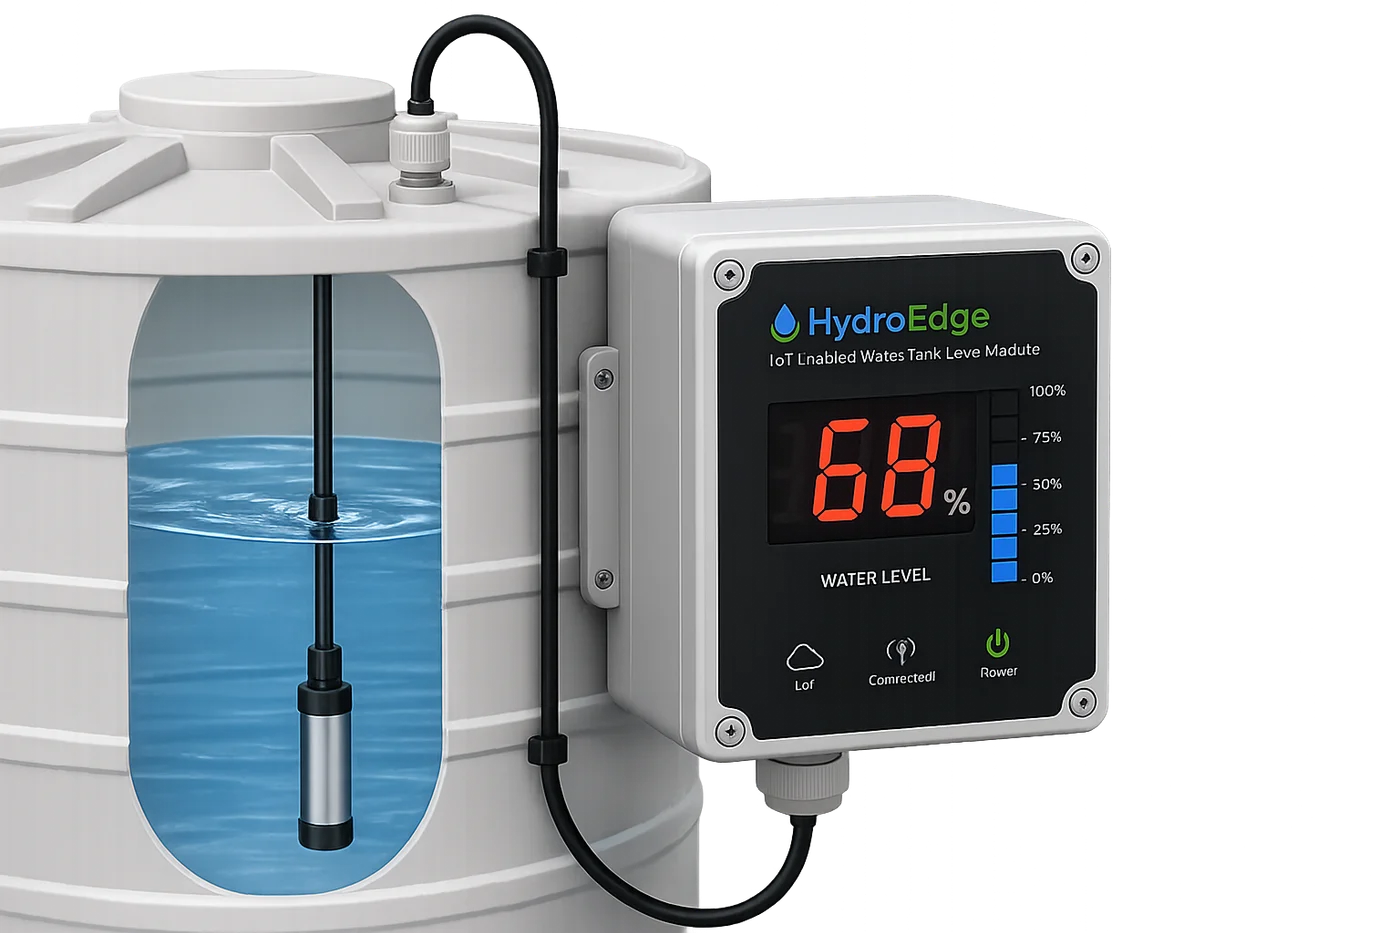
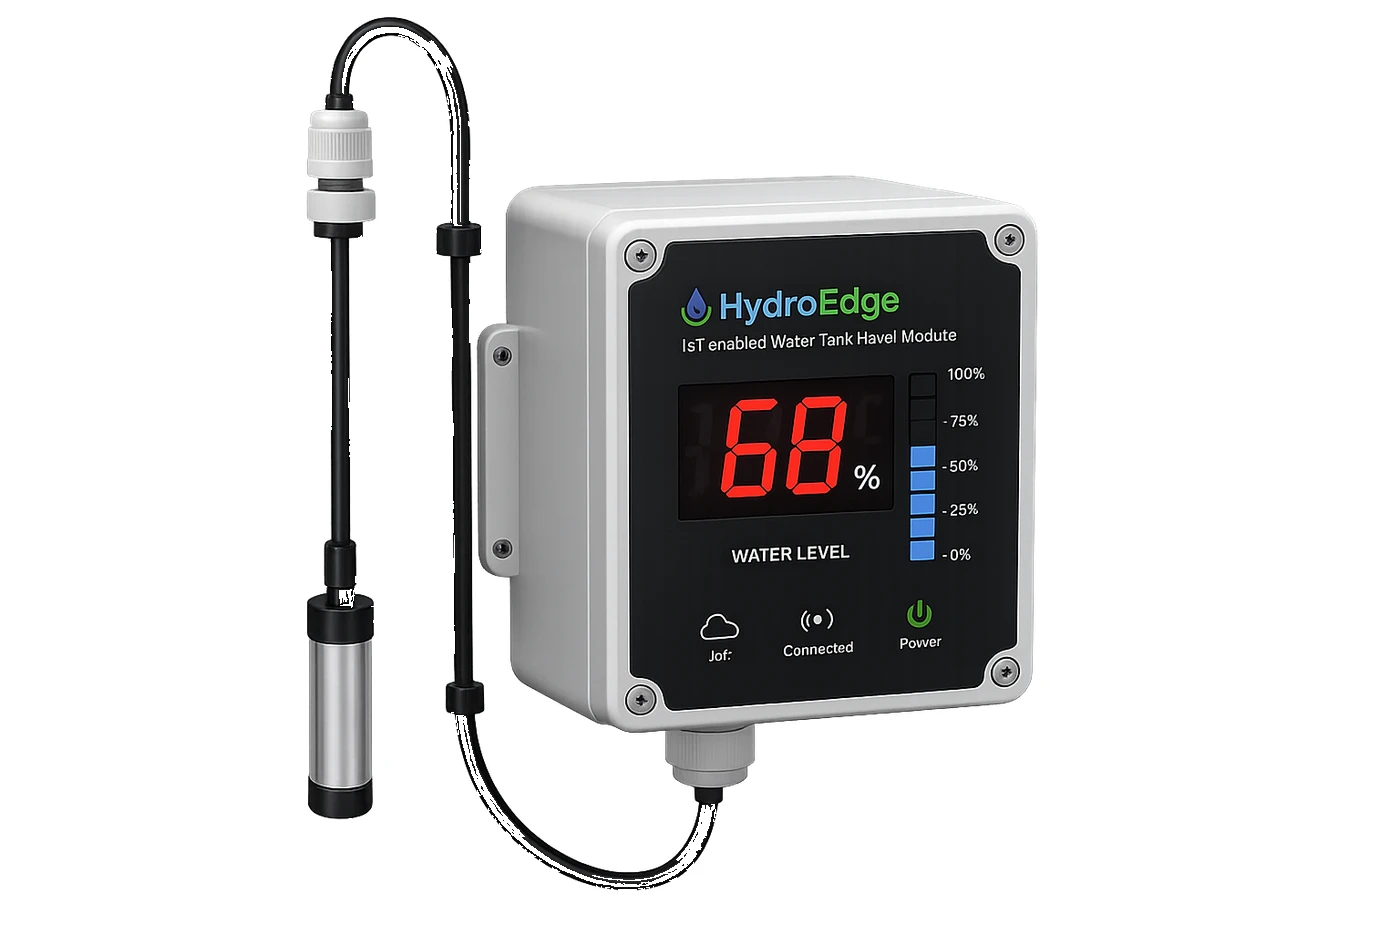
Lift the HydroPilot and HydroEdge renders onto white
The supplied product renders ship on a dark studio backdrop, which read as
dark rectangles inside the white product cards on About and Other IoT.

Removing that backdrop by luminance alone destroys the products: they are
grey steel on a grey-to-black gradient, so a flood fill walks straight
through them - the first attempt washed both out to near-white. Gating the
fill on local gradient as well as luminance fixes it. The backdrop is a
smooth vignette with almost no edge energy while the product silhouette has
plenty, so the fill spreads through flat pixels and stops at the first real
edge. The threshold is feathered across a luminance band rather than cut
hard, so the backdrop dissolves into white instead of leaving an outline.
Every detail survives, including the HydroEdge cable and the dark display.

Also corrects a mix-up: the two HydroEdge sources were named the wrong way
round. The product-only shot is now the one on the About card, and the shot
mounted on a tank is the one on Other IoT, which is what that section
describes.

The product tile on About is white rather than tinted, so the cards read as
one white surface.

diff --git a/apps/web/app/about/page.tsx b/apps/web/app/about/page.tsx
@@ -222,12 +222,17 @@ export default function AboutPage() {
                   href={item.href}
                   className="group flex h-full flex-col items-center rounded-lg border border-hydro-line bg-white p-6 text-center shadow-[0_8px_22px_rgba(9,36,76,0.05)] transition hover:border-hydro-blue2 hover:shadow-[0_28px_60px_-40px_rgba(9,36,76,0.7)]"
                 >
-                  <div className="relative h-40 w-1/2 min-w-[112px]">
+                  {/* A tile rather than a bare half-width slot. Two of the five
+                      products are photographed on a dark studio backdrop and
+                      three are cut out on white; contained inside a tinted,
+                      rounded frame both read as product shots instead of one
+                      pair floating as dark rectangles. */}
+                  <div className="relative h-40 w-full overflow-hidden rounded-xl bg-white">
                     <Image
                       src={item.image}
                       alt={item.imageAlt}
                       fill
-                      sizes="(min-width: 1280px) 9vw, (min-width: 768px) 15vw, 45vw"
+                      sizes="(min-width: 1280px) 18vw, (min-width: 768px) 30vw, 45vw"
                       loading="lazy"
                       draggable={false}
                       className="select-none object-contain transition duration-500 group-hover:scale-105"

diff --git a/apps/web/lib/about-content.ts b/apps/web/lib/about-content.ts
@@ -78,14 +78,14 @@ export const whatWeBuild = {
     {
       title: "Fully Automated Valve and Pump Controller",
       href: "/solutions/other-iot-solutions#hydropilot",
-      image: A + "product-automated-valve-and-pump-controller.webp",
-      imageAlt: "HydroPilot automated valve and pump controller mounted on a stainless steel water line"
+      image: "/images/solutions/hydropilot-automatic-valve-and-flow-meter-assembly.webp",
+      imageAlt: "HydroPilot automatic valve and pump controller: a motorised valve and an in-line flow meter on one skid, so the valve opens and the meter records the flow"
     },
     {
       title: "Tank Level Module",
       href: "/solutions/other-iot-solutions#hydroedge",
-      image: A + "product-iot-water-tank-level-module.webp",
-      imageAlt: "HydroEdge IoT water tank level module"
+      image: "/images/solutions/hydroedge-iot-water-tank-level-module.webp",
+      imageAlt: "HydroEdge IoT water tank level module with its submersible probe, the display reading 68 per cent water level"
     }
   ]
 };
